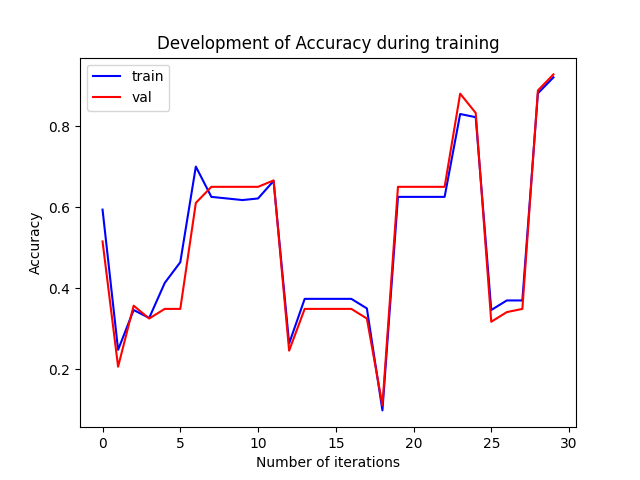
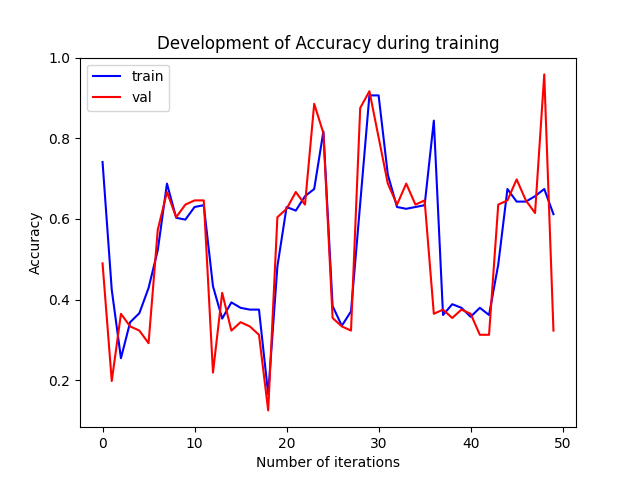
Added RMSProp, Adam optimizers. Reformatted train script. Clipping gradients moved out from optimizers to separate func.

diff --git a/src/optimizers.py b/src/optimizers.py
@@ -6,43 +6,99 @@ class Optimizer:
         self.model_params = params
         self.learning_rate = learning_rate
 
-    def step(self):
+    def step(self, iter_num):
         raise NotImplementedError
 
 
 class SGD(Optimizer):
-    def __init__(self, params, learning_rate, grad_clip=5):
+    def __init__(self, params, learning_rate, weights_decay=0.3):
         super().__init__(params, learning_rate)
         self.model_params = params
         self.learning_rate = learning_rate
-        self.grad_clip = grad_clip
+        self.weight_decay = weights_decay
 
-    def step(self):
+    def step(self, iter_num):
         for layer in self.model_params:
-            layer.weights -= self.learning_rate * np.clip(layer.weights_grad, -self.grad_clip, self.grad_clip)
-            layer.biases -= self.learning_rate * np.clip(layer.biases_grad, -self.grad_clip, self.grad_clip)
+            layer.weights += self.learning_rate * (layer.weights_grad + self.weight_decay * layer.weights)
+            layer.biases += self.learning_rate * (layer.biases_grad + self.weight_decay * layer.biases)
 
 
 class Momentum(Optimizer):
-    def __init__(self, params, learning_rate, momentum=0.99, grad_clip=5):
+    def __init__(self, params, learning_rate, momentum=0.99):
         super().__init__(params, learning_rate)
         self.model_params = params
         self.learning_rate = learning_rate
         self.momentum = momentum
-        self.grad_clip = grad_clip
         self.weights_velocities = {i: np.zeros_like(self.model_params[i].weights) for i in
                                    range(len(self.model_params))}
         self.biases_velocities = {i: np.zeros_like(self.model_params[i].biases) for i in
                                   range(len(self.model_params))}
 
-    def step(self):
+    def step(self, iter_num):
         for index, layer in enumerate(self.model_params):
             self.weights_velocities[index] = self.momentum * self.weights_velocities[index] + \
-                                             self.learning_rate * np.clip(layer.weights_grad, -self.grad_clip, self.grad_clip)
+                                             self.learning_rate * layer.weights_grad
             self.biases_velocities[index] = self.momentum * self.biases_velocities[index] + \
-                                            self.learning_rate * np.clip(layer.biases_grad, -self.grad_clip, self.grad_clip)
+                                            self.learning_rate * layer.biases_grad
             layer.weights -= self.weights_velocities[index]
             layer.biases -= self.biases_velocities[index]
 
 
-# TODO : добавить оптимизаторы RMSprop, ADAgrad, Adam
+class RMSProp(Optimizer):
+    def __init__(self, params, learning_rate, eps=1e-8, alpha=0.9):
+        super().__init__(params, learning_rate)
+        self.model_params = params
+        self.learning_rate = learning_rate
+        self.eps = eps
+        self.alpha = alpha
+        self.weights_cache = {i: np.zeros_like(self.model_params[i].weights) for i in
+                                   range(len(self.model_params))}
+        self.biases_cache = {i: np.zeros_like(self.model_params[i].biases) for i in
+                                  range(len(self.model_params))}
+
+    def step(self, iter_num):
+        for index, layer in enumerate(self.model_params):
+            self.weights_cache[index] = self.alpha * self.weights_cache[index] + (1. - self.alpha) * (layer.weights_grad ** 2)
+            self.biases_cache[index] = self.alpha * self.biases_cache[index] + (1. - self.alpha) * (layer.biases_grad ** 2)
+            layer.weights -= self.learning_rate * (layer.weights_grad / (np.sqrt(self.weights_cache[index]) + self.eps))
+            layer.biases -= self.learning_rate * (layer.biases_grad / (np.sqrt(self.biases_cache[index]) + self.eps))
+
+
+class Adam(Optimizer):
+    '''
+    "ADAM: A METHOD  FOR STOCHASTIC OPTIMIZATION"
+    https://arxiv.org/pdf/1412.6980.pdf
+    '''
+    def __init__(self, params, learning_rate, betas=(0.9, 0.999), eps=1e-8):
+        super().__init__(params, learning_rate)
+        self.model_params = params
+        self.learning_rate = learning_rate
+        self.betas = betas
+        self.eps = eps
+
+        self.weights_m = {i: np.zeros_like(self.model_params[i].weights) for i in
+                              range(len(self.model_params))}
+        self.biases_m = {i: np.zeros_like(self.model_params[i].biases) for i in
+                             range(len(self.model_params))}
+
+        self.weights_v = {i: np.zeros_like(self.model_params[i].weights) for i in
+                                   range(len(self.model_params))}
+        self.biases_v = {i: np.zeros_like(self.model_params[i].biases) for i in
+                                  range(len(self.model_params))}
+
+    def step(self, iter_num):
+        for index, layer in enumerate(self.model_params):
+            self.weights_m[index] = self.betas[0] * self.weights_m[index] + (1. - self.betas[0]) * layer.weights_grad
+            self.biases_m[index] = self.betas[0] * self.biases_m[index] + (1. - self.betas[0]) * layer.biases_grad
+
+            self.weights_v[index] = self.betas[1] * self.weights_v[index] + (1. - self.betas[1]) * layer.weights_grad ** 2
+            self.biases_v[index] = self.betas[1] * self.biases_v[index] + (1. - self.betas[1]) * layer.biases_grad ** 2
+
+            weights_m_hat = self.weights_m[index] / (1. - self.betas[0] ** iter_num)
+            biases_m_hat = self.biases_m[index] / (1. - self.betas[0] ** iter_num)
+
+            weights_v_hat = self.weights_v[index] / (1. - self.betas[1] ** iter_num)
+            biases_v_hat = self.biases_v[index] / (1. - self.betas[1] ** iter_num)
+
+            layer.weights -= self.learning_rate * weights_m_hat / (np.sqrt(weights_v_hat) + self.eps)
+            layer.biases -= self.learning_rate * biases_m_hat / (np.sqrt(biases_v_hat) + self.eps)

diff --git a/train.py b/train.py
@@ -1,10 +1,10 @@
 import numpy as np
 from src.tools import parse_args_train, load, make_learning_curves
-from src.nn_tools import seed_everything, init_weights, dataloader
+from src.nn_tools import seed_everything, init_weights, dataloader, clip_gradients
 from src.layers import Dense
 from src.losses import BinaryCrossEntropyLoss, CrossEntropyLoss
 from src.activations import ReLU, Tanh, Sigmoid, SoftMax
-from src.optimizers import SGD, Momentum
+from src.optimizers import SGD, Momentum, RMSProp, Adam
 from src.model import Model
 
 if __name__ == '__main__':
@@ -14,11 +14,6 @@ if __name__ == '__main__':
     X_train, y_train = load('tmp/train.pkl')
     X_val, y_val = load('tmp/val.pkl')
 
-    # from sklearn.linear_model import LogisticRegression
-    # from sklearn.metrics import accuracy_score
-    # m = LogisticRegression().fit(X_train, y_train)
-    # print(accuracy_score(y_val, m.predict(X_val)))
-
     model = Model()
     model.add_layer(Dense(X_train.shape[1], 100))
     model.add_layer(ReLU())
@@ -27,13 +22,12 @@ if __name__ == '__main__':
     model.add_layer(Dense(200, 50))
     model.add_layer(ReLU())
     model.add_layer(Dense(50, 2))
-    # model.add_layer(SoftMax())
 
     init_weights(model.params, 'kaiming_normal')
 
     criterion = CrossEntropyLoss()
-    optimizer = Momentum(model.params, 1e-4, grad_clip=3)
-
+    optimizer = Momentum(model.params, 1e-4)
+    # optimizer = Adam(model.params, 1e-6)
     train_acc_by_epoch = []
     val_acc_by_epoch = []
 
@@ -43,38 +37,41 @@ if __name__ == '__main__':
     for epoch in range(args['epochs']):
         train_loss_by_batch = []
         val_loss_by_batch = []
+        train_acc_by_batch = []
+        val_acc_by_batch = []
 
         for x_batch, y_batch in dataloader(X_train.to_numpy(), y_train.to_numpy(), batchsize=args['batchsize'],
                                            shuffle=True):
             preds = model.forward(x_batch, mode='train')
             loss = criterion(y_batch, preds)
+            acc = np.mean(np.argmax(preds, axis=1) == y_batch)
             train_loss_by_batch.append(loss)
+            train_acc_by_batch.append(acc)
             criterion.backward(model, y_batch, preds)
-            optimizer.step()
+            clip_gradients(model.params, 3)
+            optimizer.step(epoch + 1)
             model.clear_cache()
 
         for x_batch_val, y_batch_val in dataloader(X_val.to_numpy(), y_val.to_numpy(), batchsize=args['batchsize'],
                                            shuffle=True):
             preds = model.forward(x_batch_val)
             loss = criterion(y_batch_val, preds)
+            acc = np.mean(np.argmax(preds, axis=1) == y_batch_val)
             val_loss_by_batch.append(loss)
+            val_acc_by_batch.append(acc)
 
         train_loss_by_epoch.append(np.mean(train_loss_by_batch))
         val_loss_by_epoch.append(np.mean(val_loss_by_batch))
-
-        train_acc = np.mean(np.argmax(model.forward(X_train), axis=1) == y_train)
-        val_acc = np.mean(np.argmax(model.forward(X_val), axis=1) == y_val)
-
-        train_acc_by_epoch.append(train_acc)
-        val_acc_by_epoch.append(val_acc)
+        train_acc_by_epoch.append(np.mean(train_acc_by_batch))
+        val_acc_by_epoch.append(np.mean(val_acc_by_batch))
 
         print(f'[{epoch + 1}/{args["epochs"]} epoch] '
               f'train loss - {round(np.mean(train_loss_by_batch), 5)}, '
               f'val loss - {round(np.mean(val_loss_by_batch), 5)}, '
-              f'train acc - {round(train_acc, 5)}, '
-              f'val acc - {round(val_acc, 5)}')
+              f'train acc - {round(np.mean(train_acc_by_batch), 5)}, '
+              f'val acc - {round(np.mean(val_acc_by_batch), 5)}')
 
     make_learning_curves(train_loss_by_epoch, val_loss_by_epoch, name='loss')
     make_learning_curves(train_acc_by_epoch, val_acc_by_epoch, name='accuracy')
-
+    print(f'Best max val accuracy - {max(val_acc_by_epoch)}')
     print('Training finished.')

diff --git a/src/nn_tools.py b/src/nn_tools.py
@@ -29,8 +29,14 @@ def init_weights(params: list, method: str = 'xavier_normal') -> None:
         elif method == 'normal':
             layer.weights = np.random.normal(loc=0., scale=1., size=layer.shape)
         elif method == 'xavier_normal':
-            layer.weights = (1. / np.sqrt(layer.shape[0])) * np.random.normal(loc=0., scale=1., size=layer.shape)
+            layer.weights = np.random.normal(loc=0., scale=(np.sqrt(layer.shape[0])), size=layer.shape)
         elif method == 'kaiming_normal':
-            layer.weights = (1. / np.sqrt(layer.shape[0] / 2)) * np.random.normal(loc=0., scale=1., size=layer.shape)
+            layer.weights = np.random.normal(loc=0., scale=(np.sqrt(2 / layer.shape[0])), size=layer.shape)
         else:
             raise NotImplementedError
+
+
+def clip_gradients(params: list, grad_clip: int = 3):
+    for layer in params:
+        layer.weights_grad = np.clip(layer.weights_grad, -grad_clip, grad_clip)
+        layer.biases_grad = np.clip(layer.biases_grad, -grad_clip, grad_clip)

diff --git a/src/tools.py b/src/tools.py
@@ -114,7 +114,7 @@ def parse_args_train() -> dict:
     parser = argparse.ArgumentParser()
     parser.add_argument('--save_model_path', default='tmp/model.pkl')
     parser.add_argument('--seed', default=42)
-    parser.add_argument('--epochs', default=30)
+    parser.add_argument('--epochs', default=50)
     parser.add_argument('--batchsize', default=32)
     args = parser.parse_args()
     return args.__dict__
@@ -137,7 +137,3 @@ def load(path: str):
     with open(path, 'rb') as f:
         obj = pickle.load(f)
     return obj
-
-
-if __name__ == '__main__':
-    pass
